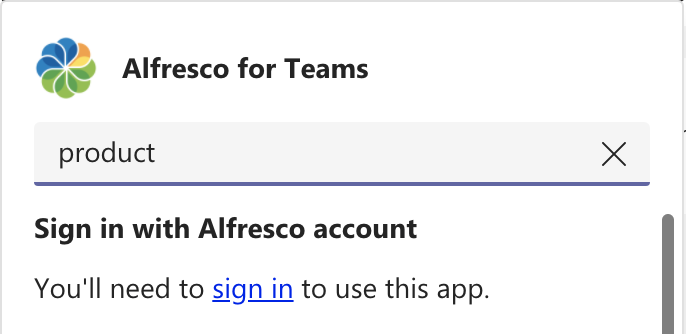
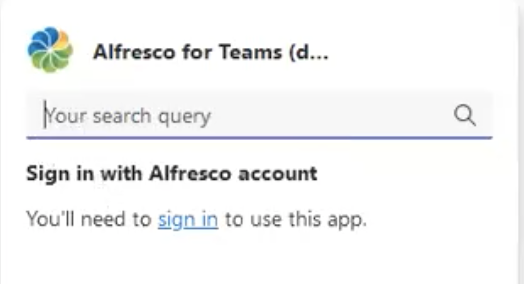
[DOCS-6773] Alfresco Collaboration Connector for Teams 1.1 (#757)
* Teams 1.1 docs
* [DOCS-6773] UA review for Teams Connector 1.1

diff --git a/microsoft-teams/1.0/using/index.md b/microsoft-teams/1.0/using/index.md
@@ -4,7 +4,7 @@ title: Using the Collaboration Connector for Teams
 
 The Collaboration Connector for Teams enable users within the Microsoft Teams Client to search for content in
 Alfresco Content Services and share a preview link. The link can be sent to a Teams chat or channel. The link will open
-in Alfresco Digital Workspace, or it can be opened directly in the Teams client if it's a public link.
+in Alfresco Digital Workspace.
 
 ## Enable the Alfresco for Teams app
 
@@ -19,8 +19,8 @@ MS Teams client is to add the *Alfresco for Teams* app.
    ![MS Teams Integration App]({% link microsoft-teams/images/ms-teams-integ-app-in-msg-extensions.png %}){:height="250px" width="200px"}
 
    If the "Alfresco for Teams" app is not available contact an Administrator to have it installed globally for all users.
-   Or install it manually as described [here]({% link microsoft-teams/latest/install/index.md %}#create-teams-integ-app-manifest)
-   and [here]({% link microsoft-teams/latest/install/index.md %}#test-app)
+   Or install it manually as described [here]({% link microsoft-teams/1.0/install/index.md %}#create-teams-integ-app-manifest)
+   and [here]({% link microsoft-teams/1.0/install/index.md %}#test-app)
 
 2. Right-click on the **Alfresco for Teams** app, so a popup menu appears:
 
@@ -41,19 +41,17 @@ can be searched for from a MS Teams client.
 
    ![MS Teams Integration App Search]({% link microsoft-teams/images/ms-teams-integ-app-search-dialog.png %}){:height="250px" width="200px"}
 
-2. If you are not logged into the Alfresco repository, a **sign in** link will appear:
+2. Now, enter a search text and hit **Enter** to search for content in the Content Services repository 
+
+3. If you are not logged into the Alfresco repository, a **sign in** link will appear:
 
    ![MS Teams Integration App SignIn Link]({% link microsoft-teams/images/ms-teams-integ-app-signin-link.png %}){:height="250px" width="200px"}
 
-3. Click the **sign in** link and then specify your Alfresco username and password:
+4. Click the **sign in** link and then specify your Alfresco username and password:
 
    ![MS Teams Integration App SignIn Dialog]({% link microsoft-teams/images/ms-teams-integ-app-signin-dialog.png %}){:height="400px" width="600px"}
 
-4. After a successful login the following dialog will appear:
-
-   ![MS Teams Integration App Search Result]({% link microsoft-teams/images/ms-teams-integ-app-signed-in.png %}){:height="250px" width="200px"}
-
-5. Now, execute a search by typing a keyword in the search field and hit return:
+5. After a successful login the search result will display:
 
    ![MS Teams Integration App Search Result]({% link microsoft-teams/images/ms-teams-integ-app-search-dialog-result.png %}){:height="250px" width="200px"}
 
@@ -73,36 +71,6 @@ When you have a search result you can share files from it with the other members
 
    ![MS Teams Integration App Search Result item shared]({% link microsoft-teams/images/ms-teams-integ-app-search-dialog-result-item-shared.png %}){:height="300px" width="600px"}
 
-4. Members can open the document in Alfresco Digital Workspace by clicking on **Open in Alfresco**:
+4. Members can open the doc in Alfresco Digital Workspace by clicking on **View in Alfresco**:
 
    ![MS Teams Integration App Doc View in ADW]({% link microsoft-teams/images/ms-teams-integ-app-doc-view-adw.png %}){:height="400px" width="600px"}
-
-5. If the search result contains an item that has been shared via a public link, then you will see an extra **Preview** 
-   button. See the [Share a public link](#share-public-link) section for more info.
-
-## Share a public link {#share-public-link}
-
-You can share Alfresco Digital Workspace links within the Teams client. Your colleagues can preview the contents of the 
-public link within the Teams client without having to navigate away to the Digital Workspace (**Preview**), or they can 
-click and navigate away from Teams to see the contents of the link in the Digital Workspace (**Open in Alfresco**).
-
->**Note:** End users don't have to log in to Alfresco Digital Workspace when using **Preview** in Teams.
-
-1. Send a public shared link to a colleague in the Teams client.
-
-   When you paste the public link into the Teams client you will see a preview of the link in the **Type a new message** 
-   pane because the link will expand into a thumbnail and filename. In this case an image of the Teams connector is shared:
-
-   ![Add public link]({% link microsoft-teams/images/ms-teams-integ-app-add-share-url.png %}){:height="300px" width="600px"}
-
-2. Your colleague will see the link and its expanded contents in the chat window:
-
-   ![Expanded link in Chat window]({% link microsoft-teams/images/ms-teams-integ-app-chat-window.png %}){:height="300px" width="600px"}
-
-3. If they click the **Preview** button they are shown a preview of the contents of the link within the Teams chat window:
-
-   ![Teams Preview window]({% link microsoft-teams/images/ms-teams-integ-app-preview-window.png %}){:height="300px" width="600px"}
-
-4. If they click the **Open in Alfresco** button they are taken to the Digital Workspace to view the file:  
-
-   ![ADW Preview window]({% link microsoft-teams/images/ms-teams-integ-app-preview.png %}){:height="300px" width="600px"}

diff --git a/microsoft-teams/1.0/install/index.md b/microsoft-teams/1.0/install/index.md
@@ -10,7 +10,7 @@ There are a number of software requirements for installing the Collaboration Con
 
 ### Alfresco requirements
 
-See the [Supported Platforms]({% link microsoft-teams/latest/support/index.md %}) for more information.
+See the [Supported Platforms]({% link microsoft-teams/1.0/support/index.md %}) for more information.
 
 ### Microsoft Teams requirements
 
@@ -261,7 +261,7 @@ something like this:
                     "type": "query",
                     "title": "Search Alfresco",
                     "description": "Perform a search in Alfresco",
-                    "initialRun": true,
+                    "initialRun": false,
                     "fetchTask": false,
                     "context": [
                         "commandBox",
@@ -284,8 +284,7 @@ something like this:
                     "type": "link",
                     "value": {
                         "domains": [
-                           "*.botframework.com",
-                           "<YOUR_DOMAIN_URL>"
+                            "*.botframework.com"
                         ]
                     }
                 }
@@ -341,7 +340,7 @@ In Microsoft Teams admin center do the following:
    To make it easy for users to get to the app, you can pin the app to the app bar in Teams. To do this, create an app 
    setup policy and assign it to users. To learn more, see [Manage app setup policies in Teams](https://docs.microsoft.com/en-us/microsoftteams/teams-app-setup-policies){:target="_blank"}.
 
-5. If you search for something in the Alfresco app it will ask you to log in. Use your Alfresco credentials.
+5. If you search for something in the Alfresco app it will ask you to login. Use your Alfresco credentials.
 
 >**Note:** A common error is when uploading a manifest zip with the wrong layout:<br/>"Error while extracting package: Please ensure there are no folders in your app package and that
 your app package contains only the `manifest.json` and the two required icon files at its root level.

diff --git a/microsoft-teams/latest/index.md b/microsoft-teams/latest/index.md
@@ -2,12 +2,12 @@
 title: Alfresco Collaboration Connector for Teams
 ---
 
-Alfresco Collaboration Connector for Teams enable users within the Microsoft Teams Client to search for content in 
-Alfresco Content Services and share a preview link. The link can be sent to a Teams chat or channel. The link will open 
-in Alfresco Digital Workspace. 
+Alfresco Collaboration Connector for Teams enable users within the Microsoft Teams Client to search for content in
+Alfresco Content Services and share a preview link. The link can be sent to a Teams chat or channel. The link will open
+in Alfresco Digital Workspace, or it can be opened directly in the Teams client if it's a public link.
 
 The following features are available:
 
 * Search for content in Alfresco Content Services
-* Share content via link
-
+* Share a document that can be opened in Alfresco Digital Workspace
+* Share a document backed by a public link that can be opened in Alfresco Digital Workspace or in the Teams client

diff --git a/microsoft-teams/1.0/support/index.md b/microsoft-teams/1.0/support/index.md
@@ -2,11 +2,11 @@
 title: Supported platforms
 ---
 
-The following are the supported platforms for the Alfresco Collaboration Connector for Teams 1.1:
+The following are the supported platforms for the Alfresco Collaboration Connector for Teams 1.0:
 
 |Version|Notes|
 |-------|-----|
-|Alfresco Content Services 7.2.0|Exposed via HTTPS|
 |Alfresco Content Services 7.1.0|Exposed via HTTPS|
 |Alfresco Identity Service 1.6.0|Exposed via HTTPS|
 |Alfresco Digital Workspace 2.4.0|Exposed via HTTPS|
+

diff --git a/microsoft-teams/1.0/index.md b/microsoft-teams/1.0/index.md
@@ -1,0 +1,13 @@
+---
+title: Alfresco Collaboration Connector for Teams
+---
+
+Alfresco Collaboration Connector for Teams enable users within the Microsoft Teams Client to search for content in 
+Alfresco Content Services and share a preview link. The link can be sent to a Teams chat or channel. The link will open 
+in Alfresco Digital Workspace. 
+
+The following features are available:
+
+* Search for content in Alfresco Content Services
+* Share content via link
+
